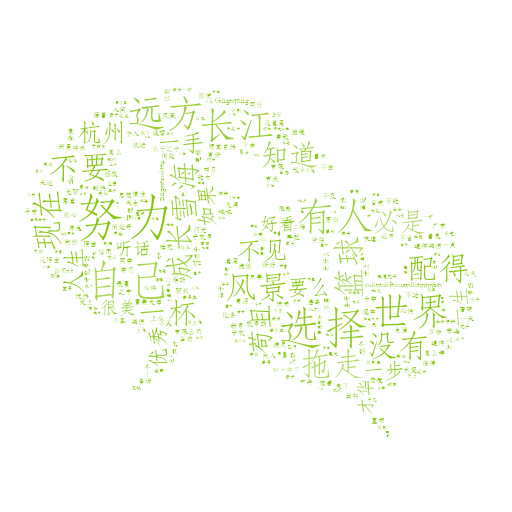
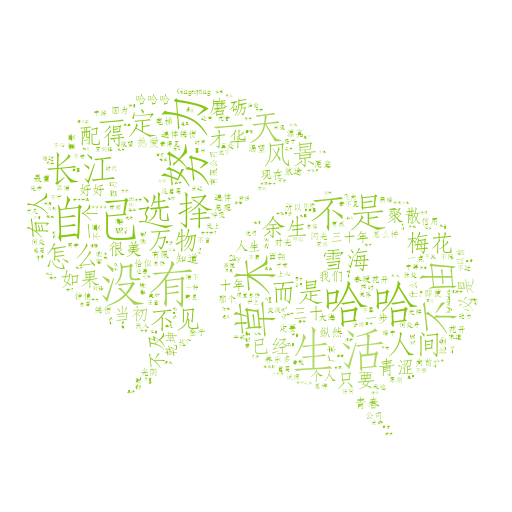
同步

Changed region(s): [[0.0312, 0.1562, 0.9375, 0.8438], [0.75, 0.8438, 0.7812, 0.875]]

diff --git a/venv/Include/wechat/chatUseData.py b/venv/Include/wechat/chatUseData.py
@@ -16,12 +16,12 @@ common = Common() #这是个我自己封装的工具类
 key = 'cc186c9881b94b42b886a6d634c63002'
 key_jh = '777d35900bffe58af88f56069b12785c'
 # 提取故事的第一天
-readBookStartDay = datetime.datetime(2019, 3, 30)
+readBookStartDay = datetime.datetime(2020, 2, 4)
 # 提取情话的第一天
 qinghuaStartDay = datetime.datetime(2019, 3, 19)
 # 天气计算开始时间
-weatherStartDay = datetime.datetime(2019, 4, 14)
-cityList = [ '九江', '九江', '九江','九江', '九江', '九江', '九江','九江', '九江', '九江', '九江', '九江','九江', '九江', '九江', '九江','九江', '九江', '九江'];
+weatherStartDay = datetime.datetime(2019, 4, 30)
+cityList = [ '九江&杭州', '九江&杭州', '九江&杭州','九江&杭州', '九江&杭州', '九江&杭州', '九江','九江', '九江', '九江', '九江', '九江','九江', '九江', '九江', '九江','九江', '九江', '九江'];
 class DataUtil():
 
     # 获取天气信息
@@ -29,14 +29,17 @@ class DataUtil():
         today = datetime.datetime.now()
         dayCount = (today - weatherStartDay).days
         # cityname = cityList[dayCount]
-        # 阿凡达数据
-        url = ' http://api.avatardata.cn/Weather/Query?key=' + key + '&cityname=' + cityname
-        # 聚合数据
-        url_jh = 'http://v.juhe.cn/weather/index?key=' + key_jh + '&cityname=' + cityname
-        results = common.get(url)
-        text = self.parseInfo_afd(results)
-        print(text)
-        return text
+        textContent = ''
+        citys = cityname.split('&')
+        for city in citys:
+            # 阿凡达数据
+            url = ' http://api.avatardata.cn/Weather/Query?key=' + key + '&cityname=' + city
+            # 聚合数据
+            url_jh = 'http://v.juhe.cn/weather/index?key=' + key_jh + '&cityname=' + city
+            results = common.get(url)
+            textContent += self.parseInfo_afd(results)
+        print(textContent)
+        return textContent
 
     # 简单的数据封装
     def parseInfo_afd(self, jsons):
@@ -59,7 +62,7 @@ class DataUtil():
         textInfo = textInfo + '运动指数：' + jsonData['result']['life']['info']['yundong'][0] + ' - ' + jsonData['result']['life']['info']['yundong'][1] + '\n\n'
         textInfo = textInfo + '感冒指数：' + jsonData['result']['life']['info']['ganmao'][0] + ' - ' + jsonData['result']['life']['info']['ganmao'][1]  + '\n\n'
         textInfo = textInfo + '紫外线指数：' + jsonData['result']['life']['info']['ziwaixian'][0] + ' - ' + jsonData['result']['life']['info']['ziwaixian'][1]  + '\n\n'
-        textInfo = textInfo + 'by：小可爱的贴心秘书' + '\n'
+        textInfo = textInfo + 'by：小可爱的贴心秘书' + '\n\n'
         return textInfo
 
     def parseInfo_jh(self, jsons):
@@ -85,7 +88,7 @@ class DataUtil():
     # 睡前故事
     def getBookInfo(self, filePath):
         radioList = [] #微信每次最多只能发送的字符是有限制的，我每25行发送一次信息
-        tempInfo = '睡前故事：刘瑜 - 《送你一颗子弹》.\n\n'
+        tempInfo = '睡前故事：汪曾祺 - 《生活，是很好玩的》.\n\n'
         readFlag = False #是否读取
         today = datetime.datetime.now()
         dayCount = (today - readBookStartDay).days + 1
@@ -98,11 +101,11 @@ class DataUtil():
             if readFlag:
                 # 预计文本长度 微信每次最多只能发送的字符是有限制的
                 length = len(tempInfo) + len(line)
-                if length > 1500:
+                if length > 1200:
                     radioList.append(tempInfo)
                     tempInfo = ''
                 tempInfo += line
-        tempInfo += '\n晚安\n' + 'by：小可爱的贴心秘书' + '\n'
+        tempInfo += '\n\n晚安\n' + 'by：小可爱的贴心秘书' + '\n'
         radioList.append(tempInfo)
         # common.txtToMp3(radioList) #文字生成语音 发送语音
         print(radioList)
@@ -111,17 +114,17 @@ class DataUtil():
     # 每日一句
     def getDaily(self):
         nowDay = datetime.datetime.now().strftime('%Y-%m-%d');
-        tempInfo = '早安：\n'
+        tempInfo = '晚上好鸭：\n'
         url = "http://open.iciba.com/dsapi/"   # 官方提供的API
         results = common.get(url)
         resultsData = json.loads(results)
         content = resultsData['content']
         note = resultsData['note']
         translation = resultsData['translation']
-        translation = translation.replace("小编的话", "多说一句")
+        translation = translation.replace("小编的话", "我想说")
         tempInfo += content + '\n'
         tempInfo += note + '\n\n'
-        tempInfo += translation + '\n'
+        # tempInfo += translation + '\n'
         tempInfo += '\n爱你！\n'
         print(tempInfo)
         return tempInfo
@@ -182,13 +185,28 @@ if __name__ == '__main__':
 
     dataUtil = DataUtil()
     dataUtil.getDaily()
-    # dataUtil.getBingPhoto('3')
-    # stroy = dataUtil.getBookInfo('./送你一颗子弹.txt')
+    # print(dataUtil.getWeatherData(''))
+    # dataUtil.getBingPhoto('0')
+    stroy = dataUtil.getBookInfo('./生活，是很好玩的.txt')
 
     # qinghua = dataUtil.getQinghua('./qinghua.txt')
-    # for line in open('送你一颗子弹.txt', encoding='utf-8'):
-    #     print(line)
-    #     b = line != ' \n'
+
+
+
+    # size = 0
+    # for line in open('间客.txt', encoding='utf-8'):
+    #     if len(line) > 120:
+    #         print("                     " + line[0:120])
+    #         print("                     " + line[120:len(line)], end="")
+    #     else:
+    #         print("                     " + line, end="")
+    #     size = size + 1
+    #     if size > 1500 : break
+
+
+
+
+        # b = line != ' \n'
     # for txt in stroy:
     #     print(txt)
     # msg_information['001'] = '001'
@@ -205,10 +223,25 @@ if __name__ == '__main__':
     # msg_information['001'] = '001'
     # print(msg_information)
 
-
-    # with open('./送你1颗子弹.txt',encoding='utf-8',mode =  'w') as f:
-    #     for line in open('./送你一颗子弹.txt', encoding='utf-8'):
-    #         if line != ' \n':
+    # lineIndex = 0
+    #
+    # with open('./生活，是很好玩的.txt',encoding='utf-8',mode =  'w') as f:
+    #     for line in open('./一只特立独行的猪1.txt', encoding='utf-8'):
+    #         if line != '\n':
     #             f.writelines(line)
+
+
+            # f.writelines(line)
+            # if lineIndex%11 == 0:
+            #     f.writelines("night." + str(nightIndex) + "\n")
+            #     nightIndex = nightIndex + 1
+            # if line.startswith(' '):
+            #     print(line)
+            #     f.writelines(line)
+            # else:
+            #     print(line)
+            #     lineIndex = lineIndex + 1
+            #     f.writelines("night." + str(lineIndex) + "\n")
+            #     f.writelines(line)
 
 

diff --git a/venv/Include/wechat/autoSendMessage.py b/venv/Include/wechat/autoSendMessage.py
@@ -30,7 +30,7 @@ class WeChat():
         userName = friends[0]['UserName']
         return userName
 
-    def getFriends(self):
+    def getFriends(self): 
         friends = itchat.get_friends(update=True)[0:]
         return friends
 
@@ -69,7 +69,10 @@ class WeChat():
     def signature(self, friends):
         tList = []
         for i in friends:
+            nickName = i["NickName"]
+            remarkName = i["RemarkName"]
             signature = i["Signature"].replace(" ", "").replace("span", "").replace("class", "").replace("emoji", "")
+            print("昵称：" + nickName + " ；备注名：" + remarkName + " ；签名：" + signature)
             rep = re.compile("1f\d.+")
             signature = rep.sub("", signature)
             tList.append(signature)
@@ -98,7 +101,10 @@ class WeChat():
     def readStory(self):
         print('readStory do')
         # stroy = dataUtil.getBookInfo('./从你的全世界路过.txt')
-        stroy = dataUtil.getBookInfo('./送你一颗子弹.txt')
+        # stroy = dataUtil.getBookInfo('./送你一颗子弹.txt')
+        # stroy = dataUtil.getBookInfo('./人间草木.txt')
+        # stroy = dataUtil.getBookInfo('./一只特立独行的猪.txt')
+        stroy = dataUtil.getBookInfo('./生活，是很好玩的.txt')
         dataUtil.getBingPhoto('0')
         yfei = wechat.getFriend('乐多')
 
@@ -116,7 +122,8 @@ class WeChat():
     # 推送每日早报
     def dailyInfo(self):
         print('dailyInfo do')
-        jiujiang = dataUtil.getWeatherData('九江')
+        jiujiang = dataUtil.getWeatherData('都昌')
+        # hangzhou = dataUtil.getWeatherData('杭州')
         # wechat.sendMessage(jiujiang, 'filehelper')
         yfei = wechat.getFriend('乐多')
         wechat.sendMessage(jiujiang, yfei)
@@ -125,6 +132,14 @@ class WeChat():
         # group1 = wechat.getRoom('阿里A3研发部')
         # wechat.sendMessage(hangz, group1)
 
+    # 提示
+    def test(self):
+        yfei = wechat.getFriend('乐多')
+        wechat.sendMessage('记得拿外套，记得拿外套', yfei)
+        wechat.sendMessage('记得拿外套，记得拿外套', yfei)
+        wechat.sendMessage('记得拿外套，记得拿外套', yfei)
+        wechat.sendMessage('记得拿外套，记得拿外套', yfei)
+        wechat.sendMessage('记得拿外套，记得拿外套', yfei)
     # qinghua
     def qinghua(self):
         print('qinghua do')
@@ -190,23 +205,24 @@ def get_response(msg):
 wechat = WeChat() #这里是封装的 itchat
 # 开启微信登录线程，需要单独占个线程
 _thread.start_new_thread(wechat.login, ( ))
-
+ 
 # 配置定时任务
 # 开启早间天气预报 定时任务
-schedule.every().day.at("7:00").do(wechat.dailyInfo)
+schedule.every().day.at("8:00").do(wechat.dailyInfo)
 # 开启每日一句 定时任务
-schedule.every().day.at("20:00").do(wechat.qinghua)
+schedule.every().day.at("19:30").do(wechat.qinghua)
 # 开启睡前故事 定时任务
-schedule.every().day.at("21:30").do(wechat.readStory)
+schedule.every().day.at("20:00").do(wechat.readStory)
 while True:
     schedule.run_pending()
     time.sleep(1)
 
 # if __name__ == "__main__":
 #     wechat = WeChat()
-#     wechat.login();
-#     group = wechat.getRooms()
-#     print("")
+#     # wechat.login();
+#     itchat.auto_login()
+# #     group = wechat.getRooms()
+# #     print("")
 #     friends = wechat.getFriends()
 #     wechat.signature(friends)
 #     wechat.ratio(friends)
